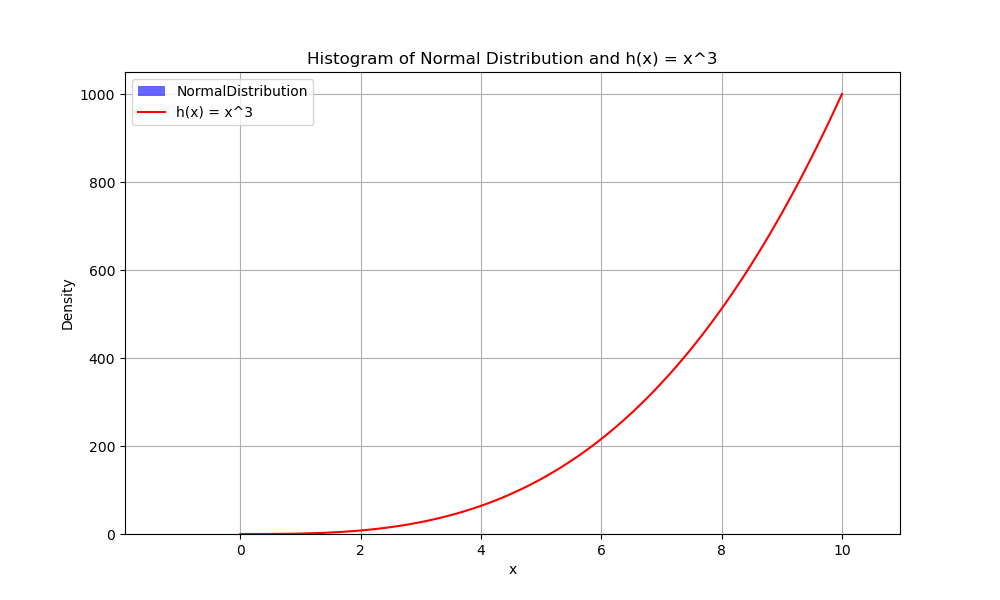
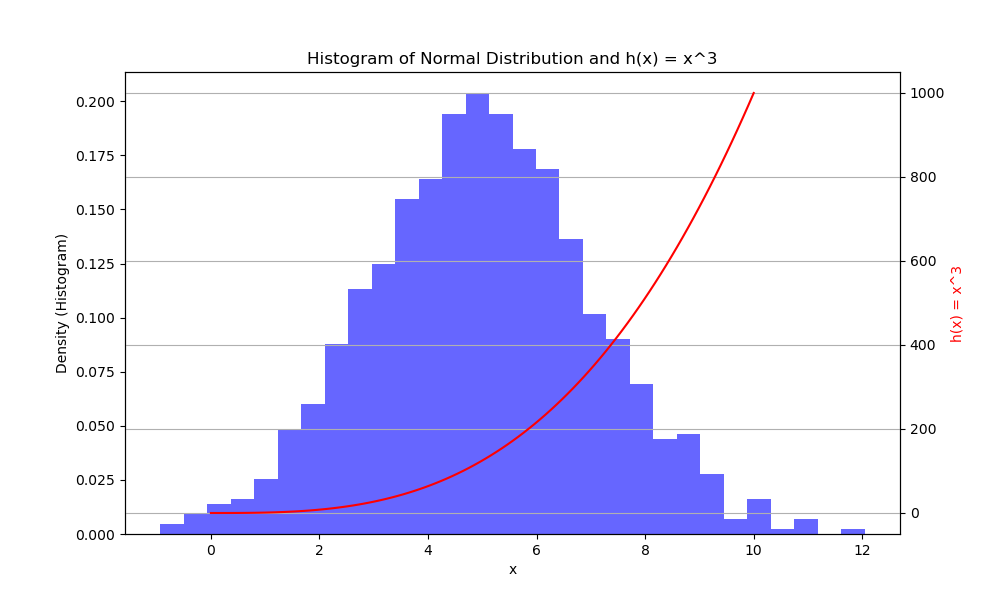
distribution histogram

diff --git a/week 8/plottask.py b/week 8/plottask.py
@@ -14,25 +14,29 @@ std_dev = 2
 sample_size = 1000
 normal_values = np.random.normal(mean, std_dev, sample_size)
 
-# Create a histogram
-plt.figure(figsize=(10, 6))
-plt.hist(normal_values, bins=30, density=True, alpha=0.6, color='blue', label='NormalDistribution')
+# Create a figure with two y-axes
+fig, ax1 = plt.subplots(figsize=(10, 6))
+ax2 = ax1.twinx()
+
+# Plot the histogram
+ax1.hist(normal_values, bins=30, density=True, alpha=0.6, color='blue', label='Normal Distribution')
 
 # Define the function h(x) = x^3
 x_values = np.linspace(0, 10, 100)
 h_values = x_values**3
 
-# Plot h(x) = x^3
-plt.plot(x_values, h_values, color='red', label='h(x) = x^3')
+# Plot h(x) = x^3 on the secondary y-axis
+ax2.plot(x_values, h_values, color='red', label='h(x) = x^3')
 
 # Add labels and title
-plt.xlabel('x')
-plt.ylabel('Density')
+ax1.set_xlabel('x')
+ax1.set_ylabel('Density (Histogram)')
+ax2.set_ylabel('h(x) = x^3', color='red')
 plt.title('Histogram of Normal Distribution and h(x) = x^3')
-plt.legend()
 
 # Show the plot
 plt.grid(True)
 plt.show()
 
-# Result of this task is a Histogram figure that show the normal distribution where have a red line 
+
+# Result of this task is a Histogram figure that show the distribution.
